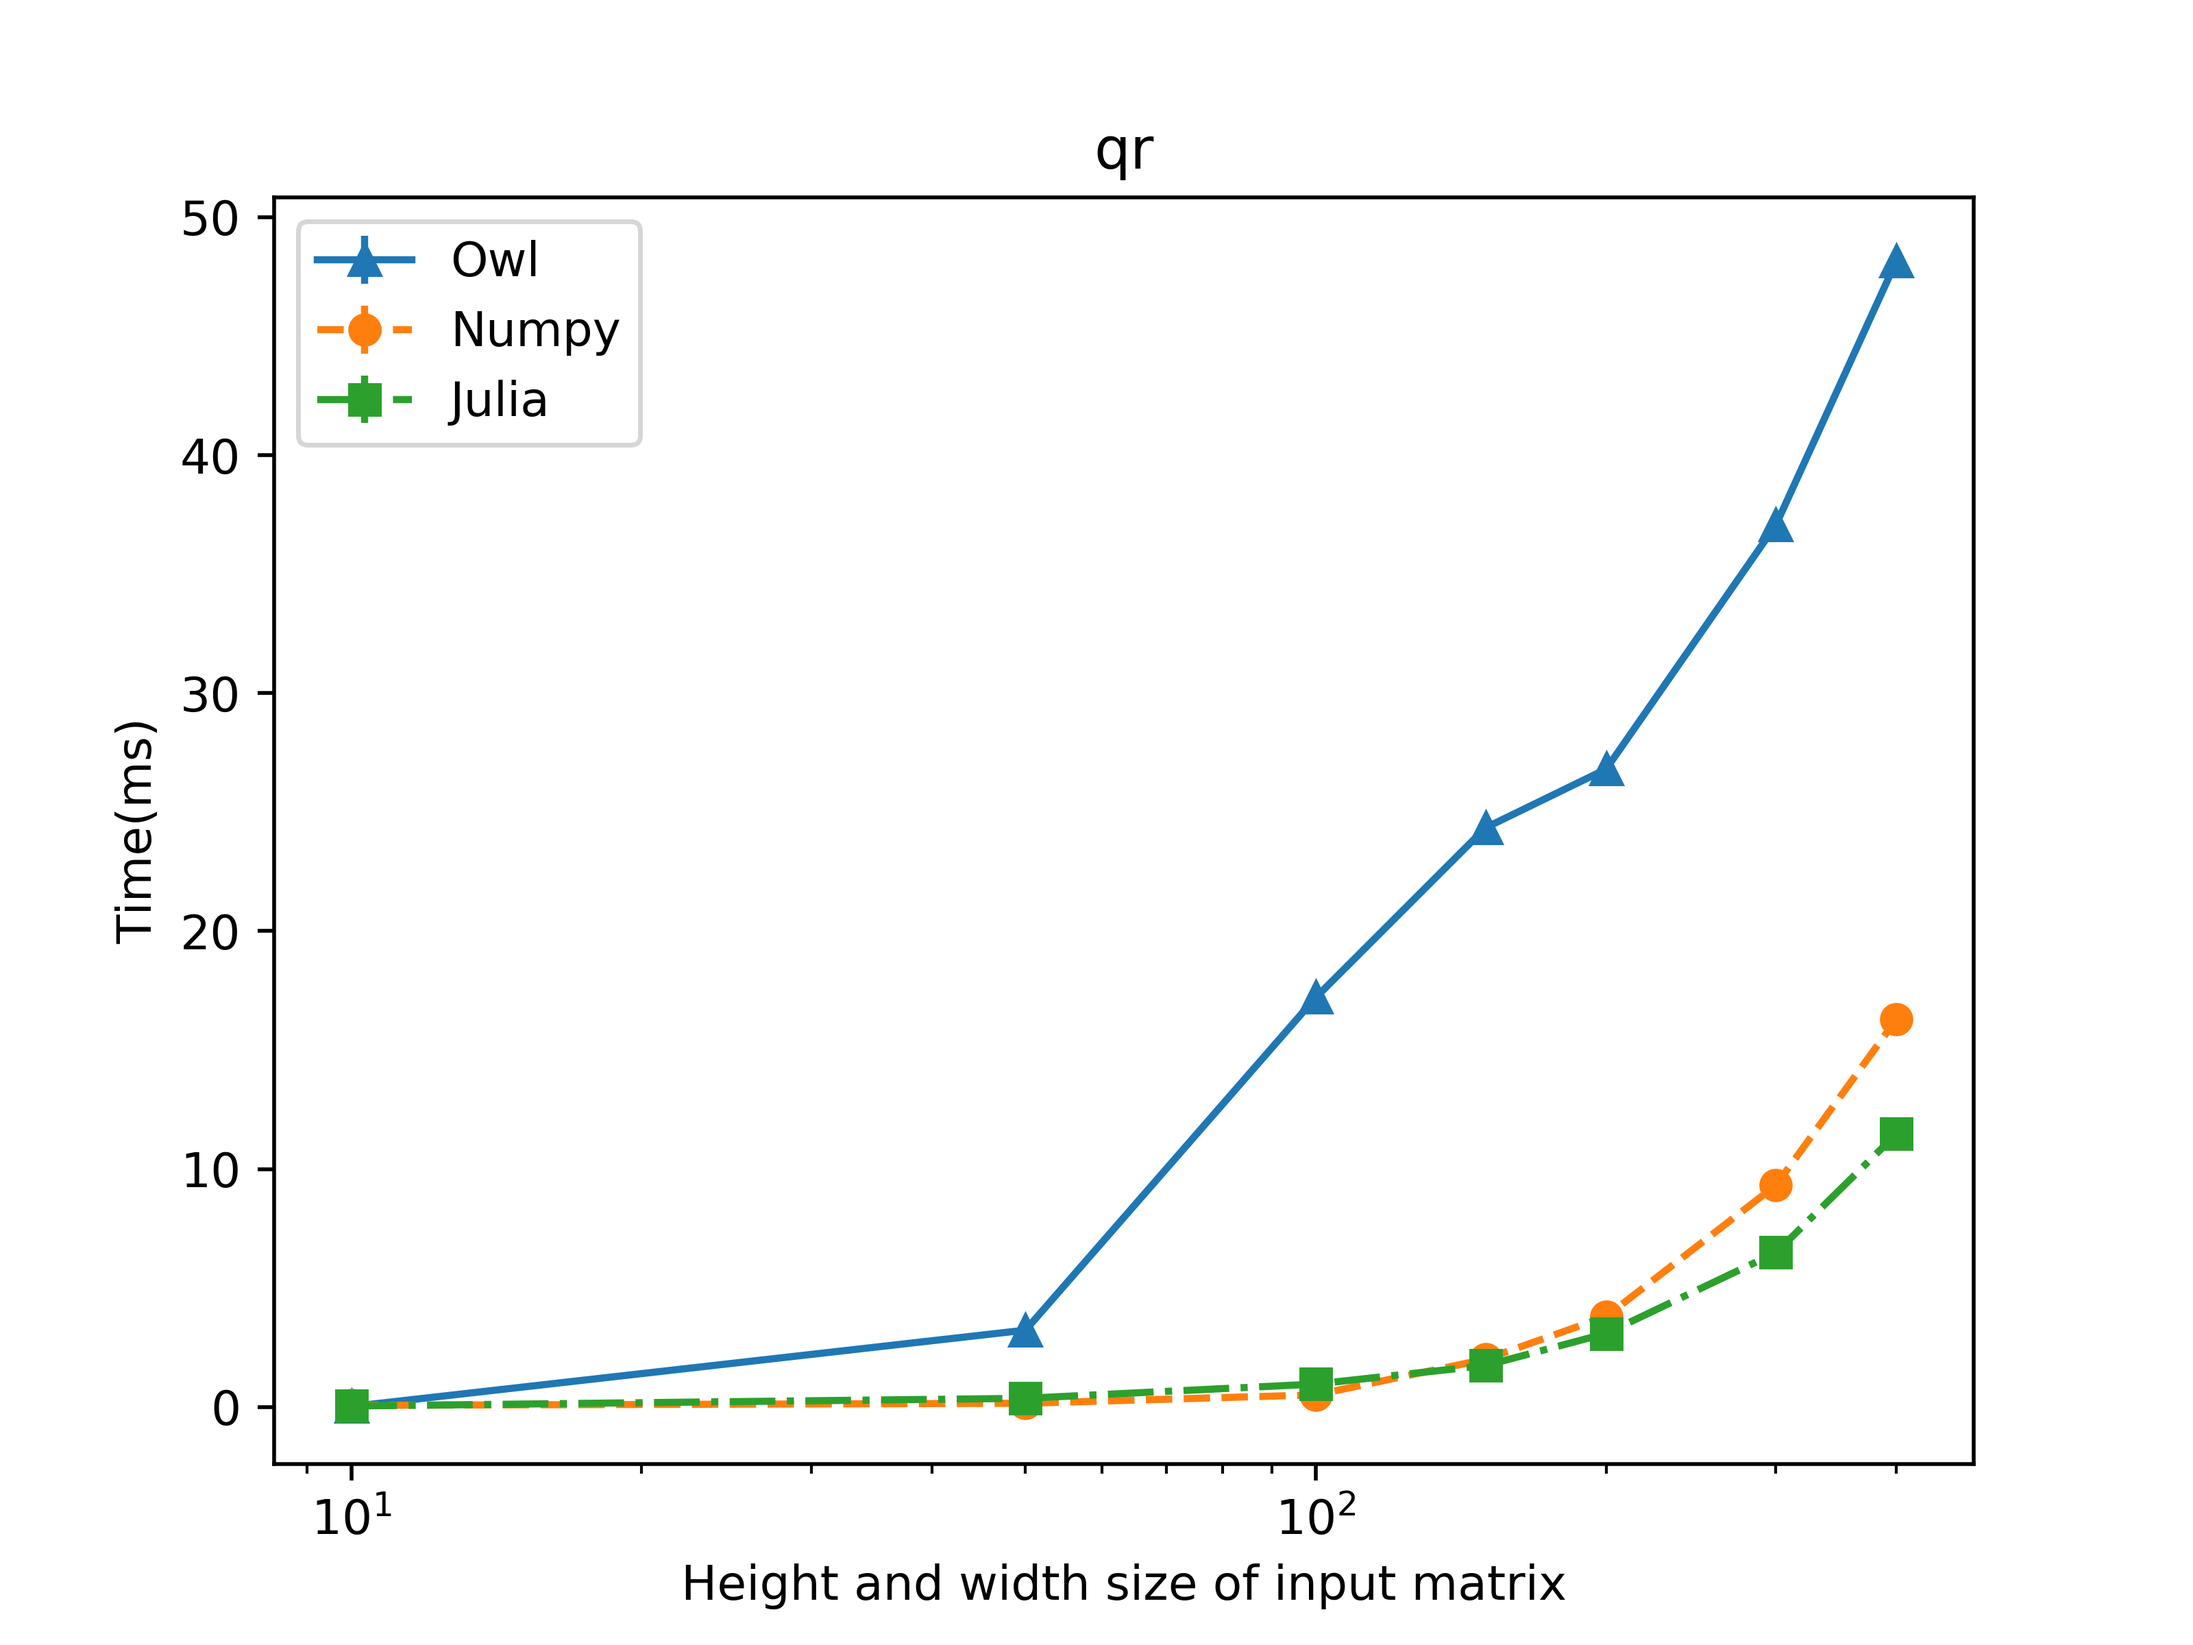
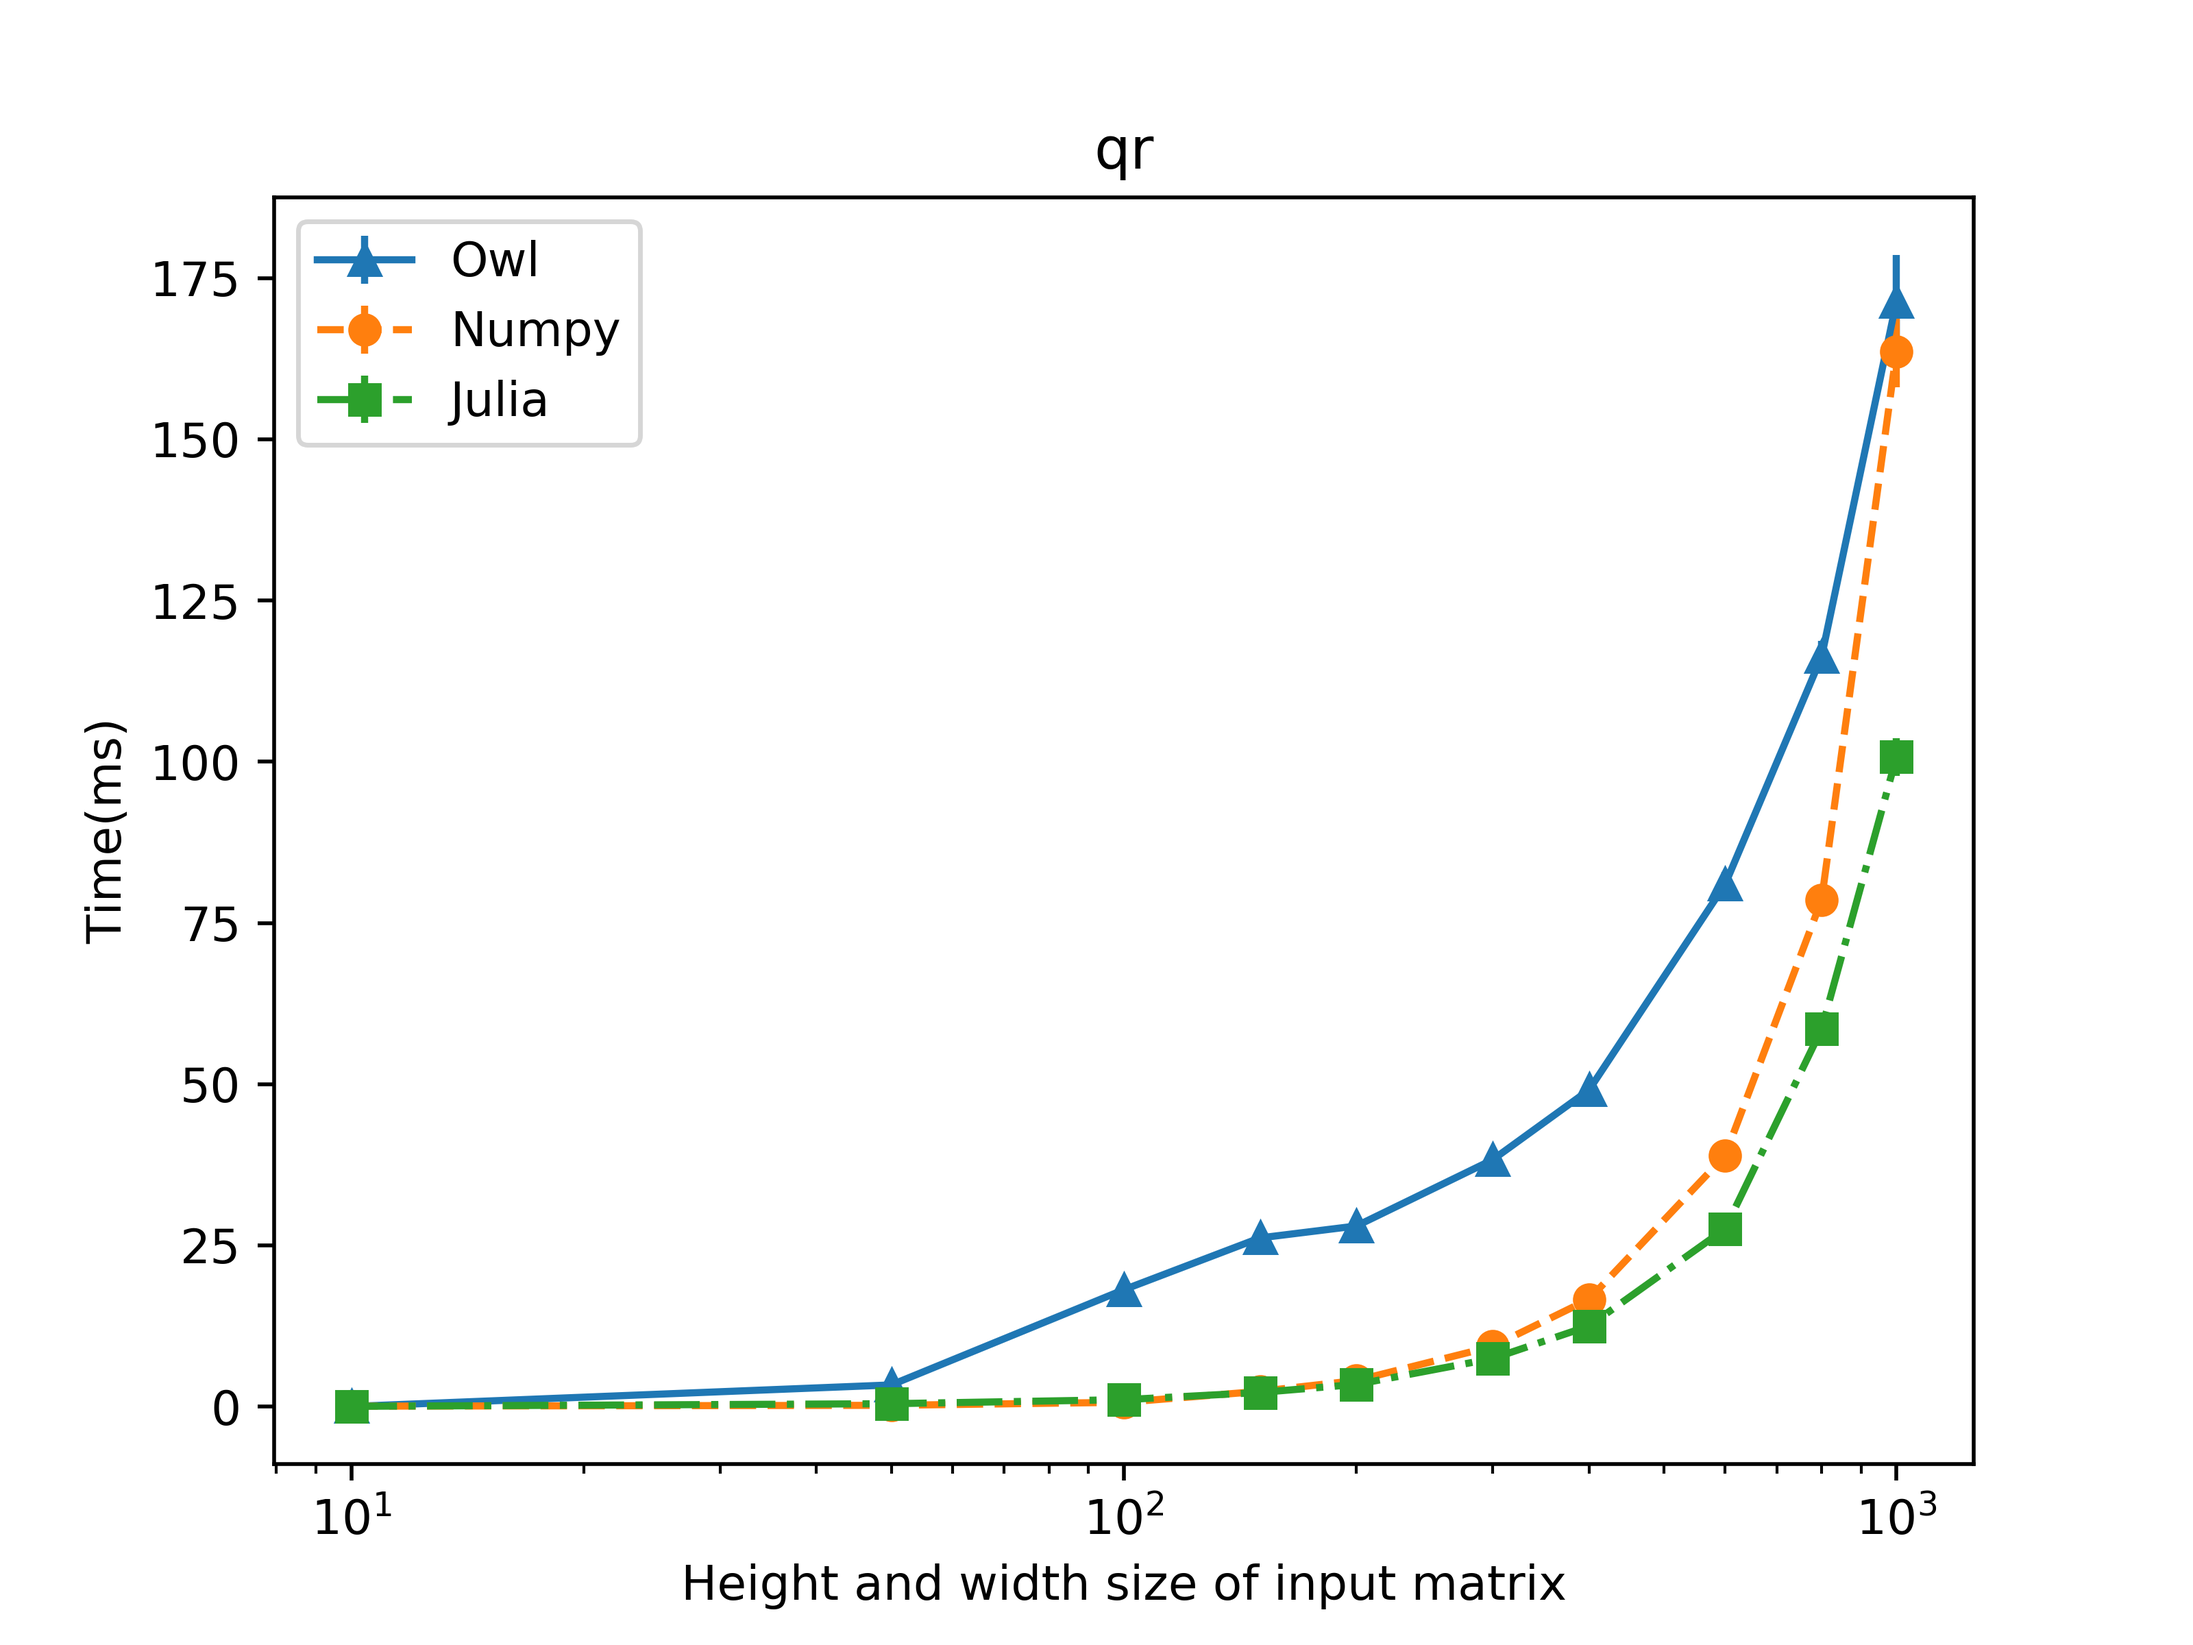
Improve performance comparison document (#4)
* update zoo doc

* minor fix

* update zoo doc

* minor fix

* updating zoo doc

* adding eval results

* add perf comp resuls

* fixing text

* fix text

* fix repeated figs

* revising perftest report

* minor fix

* minor fix

* Update perfcmp.rst

diff --git a/book/chapter/perfcmp.rst b/book/chapter/perfcmp.rst
@@ -19,7 +19,7 @@ We present the results of a thorough comparison between Owl and other popular so
 
 4) Indexing and slicing, we benchmark the ``get_slice`` function in Owl. We choose two input shapes: ``[|10; 300; 3000|]`` and ``[|3000; 300; 10|]``, and apply different index combinations, e.g. ``[[-1;0]; [0;1]; []]``.
 
-5) Linear Algebra functions, including ``matmul``, ``inv``, ``eigenvals``, ``svd``, ``lu``, and ``qr``. We use square matrix of order ``n`` as input, where ``n`` increases from 10 to 400.
+5) Linear Algebra functions, including ``matmul``, ``inv``, ``eigenvals``, ``svd``, ``lu``, and ``qr``. We use a square matrix of order ``n`` as input, where ``n`` increases from 10 to 1000.
 
 We use Owl version 0.4.0, Numpy version 1.14.3, and Julia version 0.6.3. Each observation is repeated for 30 times, with outliers being trimmed.
 The rest of this article presents the evaluation results.
@@ -28,6 +28,17 @@ The rest of this article presents the evaluation results.
 
 Vectorised Math Operations
 -------------------------------------------------
+
+The ndarray module in Owl includes a full set of vectorised unary and binary mathematical functions. These functions map to each element in the input ndarray to the output with specific tranformation functions.
+We choose a group of representative operations considering computation type and complexity for evaluation. For example, ``log2`` and ``sub`` are not used, since we have already selected the ``log`` and ``add`` operations with equivalent complexity.
+
+Also, since Numpy and Julia do not have ``sigmoid``, we calculate it using existing operations. For example, the code in Python:
+
+.. code-block:: python
+
+  def sigmoid(x): return 1 / (1 + np.exp(-x))
+
+The figures below show the evaluation results.
 
 .. figure:: ../figure/perf/op_eval15.png
    :width: 100%
@@ -144,6 +155,12 @@ One thing is noteworthy is that Owl's ``copy`` function is slower than the other
 Fold and Scan Operations
 -------------------------------------------------
 
+Fold and scan operations share the similar interface. They both have an axis parameter to specify along which axis of the input ndarray to perform certain type of calculation.
+
+A fold function, or "reduction" function as is called in some other numerical libraries, reduces one dimension of a ndarray to one, and accumulates the value along that dimension according to the applied calculation. Scan functions are similar, only that they do not change the shape of input. 
+
+In this part we choose the widely used maximum, summation, and multiplication calculations for both.
+
 .. figure:: ../figure/perf/op_eval23.png
    :width: 100%
    :align: center
@@ -169,12 +186,17 @@ Fold and Scan Operations
    :align: center
    :alt: cumprod
 
-For fold and scan operations, except for ``max``, Owl operations are not the fastest. The performance varies for different computation.
+For fold and scan operations, except for ``max``, Owl operations are not the fastest. The performance varies for different computations.
+Similar to vectorised math operations, the fold functions of Numpy and Julia also utilise AVX/SSE to boost the performance, while in Owl they are implemented as simple ``for`` loops with varied strides. This explains the performance gap for ``sum`` and ``prod``.
 
 
 
 Repeat Operations
 -------------------------------------------------
+
+The ``repeat`` function in Owl repeats the elements in ndarray according the repetition specified by an integer array, the i-th element of which specifies the number of times that the individual entries of the i-th dimension of input ndarray should be repeated.
+
+``tile`` is similar, but it repeats the whole input along specified dimensions. These two functions are also referred to as inner and outer repetition respectively.
 
 .. figure:: ../figure/perf/op_eval28.png
    :width: 100%
@@ -186,24 +208,33 @@ Repeat Operations
    :align: center
    :alt: tile
 
-We do not include results of Julia here, since its repeat operations are orders of magnitude slower than that of Owl and Numpy. Owl has shown the advantage for repeat operations.
+We exclude results of Julia in the comparison, since its repeat operations are orders of magnitude slower than that of Owl and Numpy.
+
+Owl has shown the advantage for repeat operations. Part of the reason is that , multiple axes repeat in Numpy is implemented with multiple basic single axis repeat operation, whereas Owl has adopted an algorithm that repeats along multiple axes without generating intermediate results.
 
 
 
 Slicing Operation
 -------------------------------------------------
 
+Slicing is one of the most important functions in a numerical computing library.
+Owl provides basic slicing and fancy slicing. The latter supports more powerful index definition, but basic slicing is sufficient for performance evaluation.
+Basic slicing contains two functions ``get_slice`` and ``set_slice`` to retrieve and assign slice values respectively. We evaluate the get function in this section.
+
 .. figure:: ../figure/perf/op_eval29.png
    :width: 100%
    :align: center
    :alt: get_slice
 
-We apply 8 different indices for two 3-dimensional arrays in slicing, and the result shows that currently indexing and slicing in Owl still needs improving compared with Numpy and Julia.
+We apply 8 different indices for two 3-dimensional arrays in slicing, and the result shows that slicing in Owl is slower than Numpy and Julia.
 
 
 
 Linear Algebra Operations
 -------------------------------------------------
+
+Linear Algebra functions are usually categorised into matrix/vector products, decompositions, matrix eigenvalues, solving and inverting matrix, etc. In this section we choose to test multiplication, SVD/LU/QR decomposition, eigenvalue computation, and inversion functions for matrix. Since LU decomposition is not provided in Numpy, we use ``scipy.linalg.lu`` from the Scipy linear algebra library instead.
+The results are shown as below.
 
 .. figure:: ../figure/perf/op_eval33.png
    :width: 100%
@@ -235,5 +266,6 @@ Linear Algebra Operations
    :align: center
    :alt: eigvals
 
+The performance for linear algebra operations are similar, since they all call the low level LAPACK and BLAS libraries to perform the required calculation.
 
-Except for ``qr``, the performance of Owl and Julia is very close for the other regarding to linear algebra operations. Both are slightly slower than that of Numpy.
+As to the performance of QR decomposition, most of its time is spent in LAPACK routines. Owl's LAPACK interface passes data directly to LAPACK, while Numpy's interface implementation preprocesses the data according to different conditions, thus trying to improve the performance.
